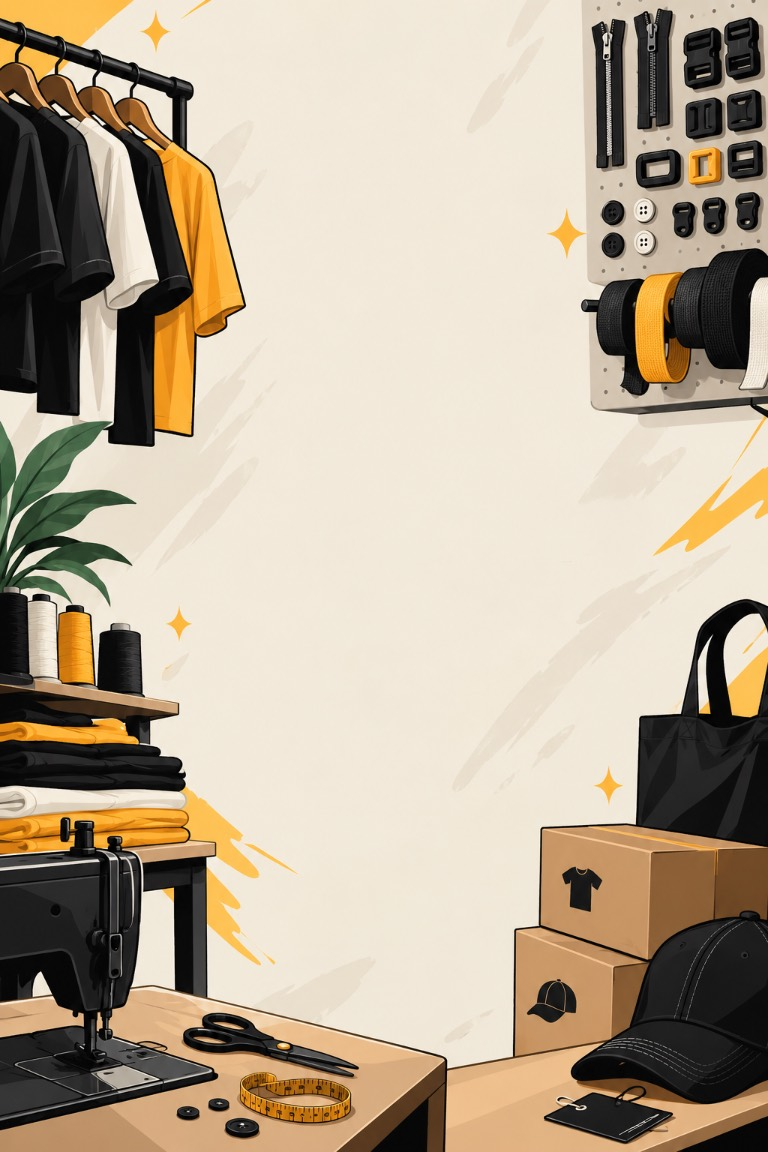
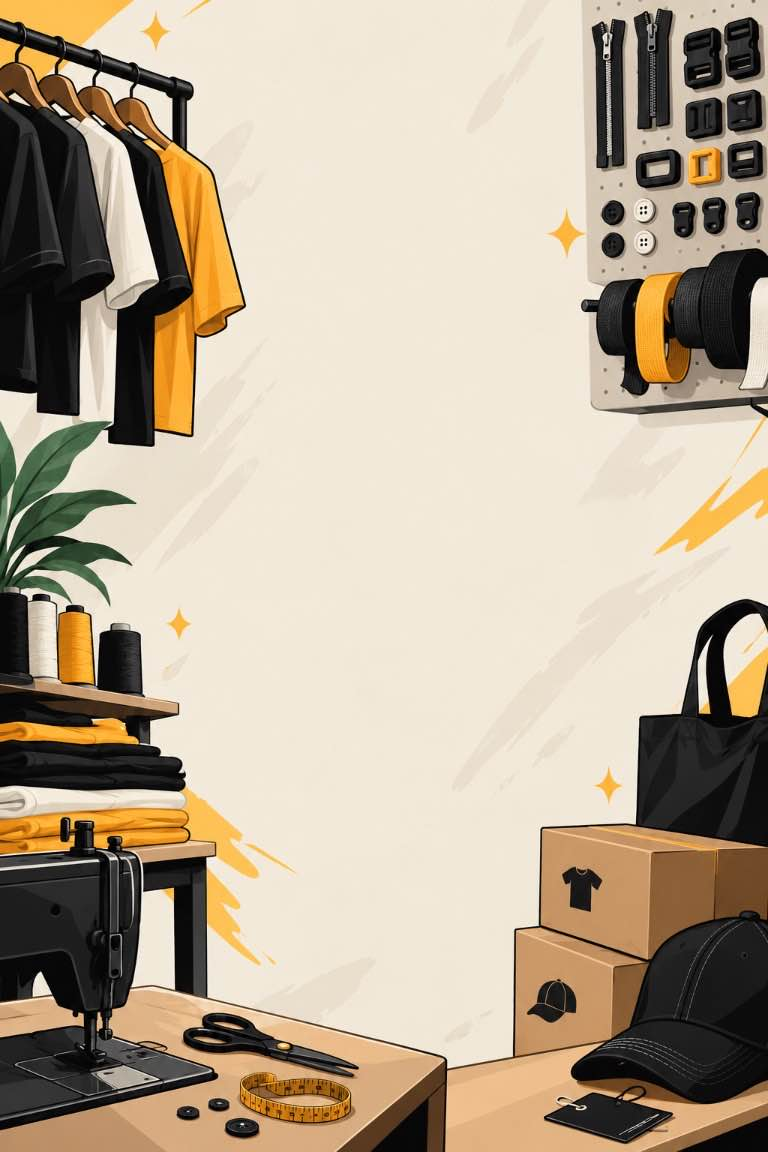
CBF1

Changed region(s): [[0.3125, 0.9375, 0.3438, 0.9688], [0.0625, 0.0312, 0.0938, 0.0625]]

diff --git a/src/pages/Login.tsx b/src/pages/Login.tsx
@@ -90,7 +90,13 @@ export default function Login() {
           <div className="absolute -bottom-28 -left-20 h-64 w-64 rounded-full border-[18px] border-primary/20" aria-hidden="true" />
           <div className="relative">
             <div className="flex items-center gap-3">
-              <img src={`${import.meta.env.BASE_URL}icon-192.png`} alt="RAJA Aksesoris" className="h-12 w-12 rounded-2xl object-cover ring-4 ring-accent/20" />
+              <img
+                src={`${import.meta.env.BASE_URL}icon-96.png`}
+                srcSet={`${import.meta.env.BASE_URL}icon-96.png 96w, ${import.meta.env.BASE_URL}icon-192.png 501w`}
+                sizes="48px"
+                alt="RAJA Aksesoris"
+                className="h-12 w-12 rounded-2xl object-cover ring-4 ring-accent/20"
+              />
               <div>
                 <p className="text-sm font-semibold tracking-[0.18em] text-accent">RAJA</p>
                 <p className="text-xs text-white/60">Aksesoris Konveksi</p>
@@ -120,7 +126,13 @@ export default function Login() {
           <div className="absolute -bottom-20 -left-10 h-36 w-36 rounded-full border-[12px] border-primary/20" aria-hidden="true" />
           <div className="relative">
             <div className="flex items-center gap-2.5">
-              <img src={`${import.meta.env.BASE_URL}icon-192.png`} alt="RAJA Aksesoris" className="h-10 w-10 rounded-xl object-cover ring-4 ring-accent/20" />
+              <img
+                src={`${import.meta.env.BASE_URL}icon-96.png`}
+                srcSet={`${import.meta.env.BASE_URL}icon-96.png 96w, ${import.meta.env.BASE_URL}icon-192.png 501w`}
+                sizes="40px"
+                alt="RAJA Aksesoris"
+                className="h-10 w-10 rounded-xl object-cover ring-4 ring-accent/20"
+              />
               <div>
                 <p className="text-sm font-semibold tracking-[0.18em] text-accent">RAJA</p>
                 <p className="text-xs text-white/60">Aksesoris Konveksi</p>

diff --git a/index.html b/index.html
@@ -14,7 +14,9 @@
     <title>RAJA Aksesoris · POS</title>
     <link rel="preconnect" href="https://fonts.googleapis.com" />
     <link rel="preconnect" href="https://fonts.gstatic.com" crossorigin />
-    <link href="https://fonts.googleapis.com/css2?family=Nunito+Sans:wght@400;500;600;700&family=Rubik:wght@400;500;600;700&display=swap" rel="stylesheet" />
+    <link rel="preload" href="https://fonts.googleapis.com/css2?family=Nunito+Sans:wght@400;500;600;700&family=Rubik:wght@400;500;600;700&display=swap" as="style" />
+    <link href="https://fonts.googleapis.com/css2?family=Nunito+Sans:wght@400;500;600;700&family=Rubik:wght@400;500;600;700&display=swap" rel="stylesheet" media="print" onload="this.media='all'" />
+    <noscript><link href="https://fonts.googleapis.com/css2?family=Nunito+Sans:wght@400;500;600;700&family=Rubik:wght@400;500;600;700&display=swap" rel="stylesheet" /></noscript>
     <style>
       html, body, #root {
         background: #202a2e;

diff --git a/src/components/layout/AppLayout.tsx b/src/components/layout/AppLayout.tsx
@@ -117,7 +117,13 @@ export function AppLayout() {
       >
         <div className="hidden h-[4.5rem] items-center gap-3 border-b border-white/10 px-4 lg:flex">
           <div className="flex h-9 w-9 items-center justify-center rounded-xl bg-accent text-ink shadow-[0_0_0_4px_rgba(228,168,83,0.14)]">
-            <img src={`${import.meta.env.BASE_URL}icon-192.png`} alt="RAJA Aksesoris" className="h-9 w-9 rounded-xl object-cover" />
+            <img
+              src={`${import.meta.env.BASE_URL}icon-96.png`}
+              srcSet={`${import.meta.env.BASE_URL}icon-96.png 96w, ${import.meta.env.BASE_URL}icon-192.png 501w`}
+              sizes="36px"
+              alt="RAJA Aksesoris"
+              className="h-9 w-9 rounded-xl object-cover"
+            />
           </div>
           <div className="min-w-0">
             <h1 className="truncate whitespace-nowrap text-[0.82rem] font-semibold tracking-tight">RAJA AKSESORIS</h1>

diff --git a/src/pages/POS.tsx b/src/pages/POS.tsx
@@ -487,7 +487,9 @@ export default function POS() {
         <div className="mb-2 flex items-start justify-between gap-2 lg:mb-4 lg:gap-3">
           <div className="flex items-center gap-3">
             <img
-              src={`${import.meta.env.BASE_URL}icon-192.png`}
+              src={`${import.meta.env.BASE_URL}icon-96.png`}
+              srcSet={`${import.meta.env.BASE_URL}icon-96.png 96w, ${import.meta.env.BASE_URL}icon-192.png 501w`}
+              sizes="(min-width: 1024px) 40px, 32px"
               alt="RAJA Aksesoris"
               className="h-8 w-8 rounded-lg object-cover shadow-sm lg:h-10 lg:w-10 lg:rounded-xl"
             />

diff --git a/public/sw.js b/public/sw.js
@@ -1,6 +1,6 @@
 // Bump this value when the app shell or caching strategy changes. Old caches
 // are removed during activate so lazy-loaded pages do not resolve stale chunks.
-const CACHE_NAME = 'konveksipos-v5'
+const CACHE_NAME = 'konveksipos-v6'
 const BASE_PATH = new URL('./', self.registration.scope).pathname
 const APP_SHELL = [
   BASE_PATH,
@@ -8,6 +8,7 @@ const APP_SHELL = [
   `${BASE_PATH}manifest.webmanifest`,
   `${BASE_PATH}favicon.png`,
   `${BASE_PATH}icon-192.png`,
+  `${BASE_PATH}icon-96.png`,
   `${BASE_PATH}icon-512.png`,
   `${BASE_PATH}login-background.jpg`,
 ]
